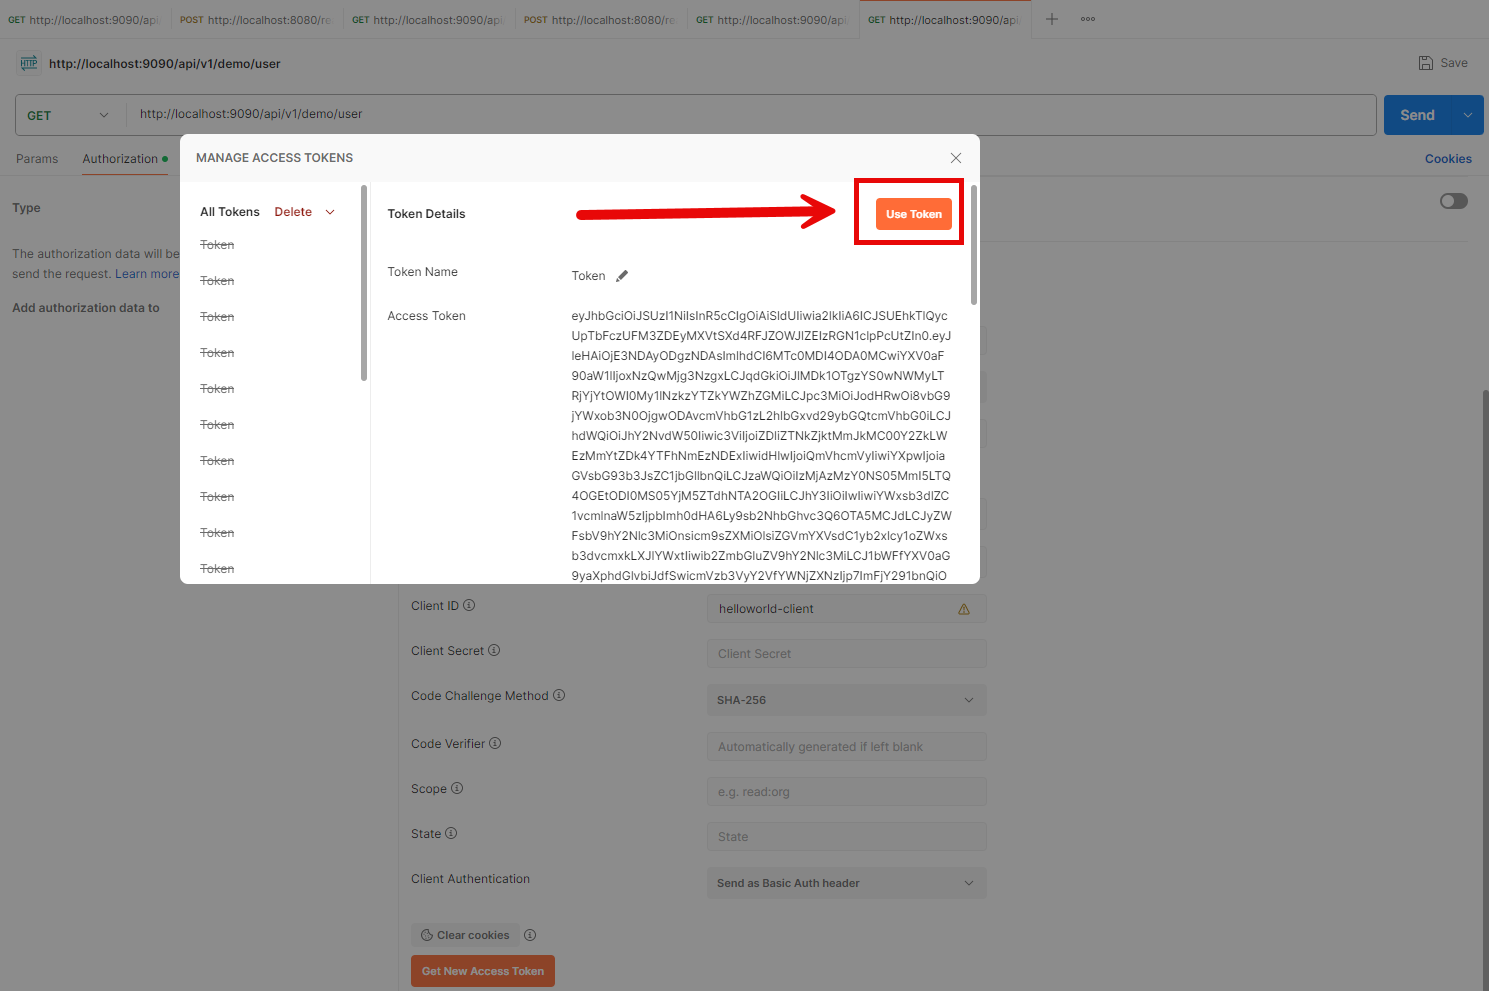
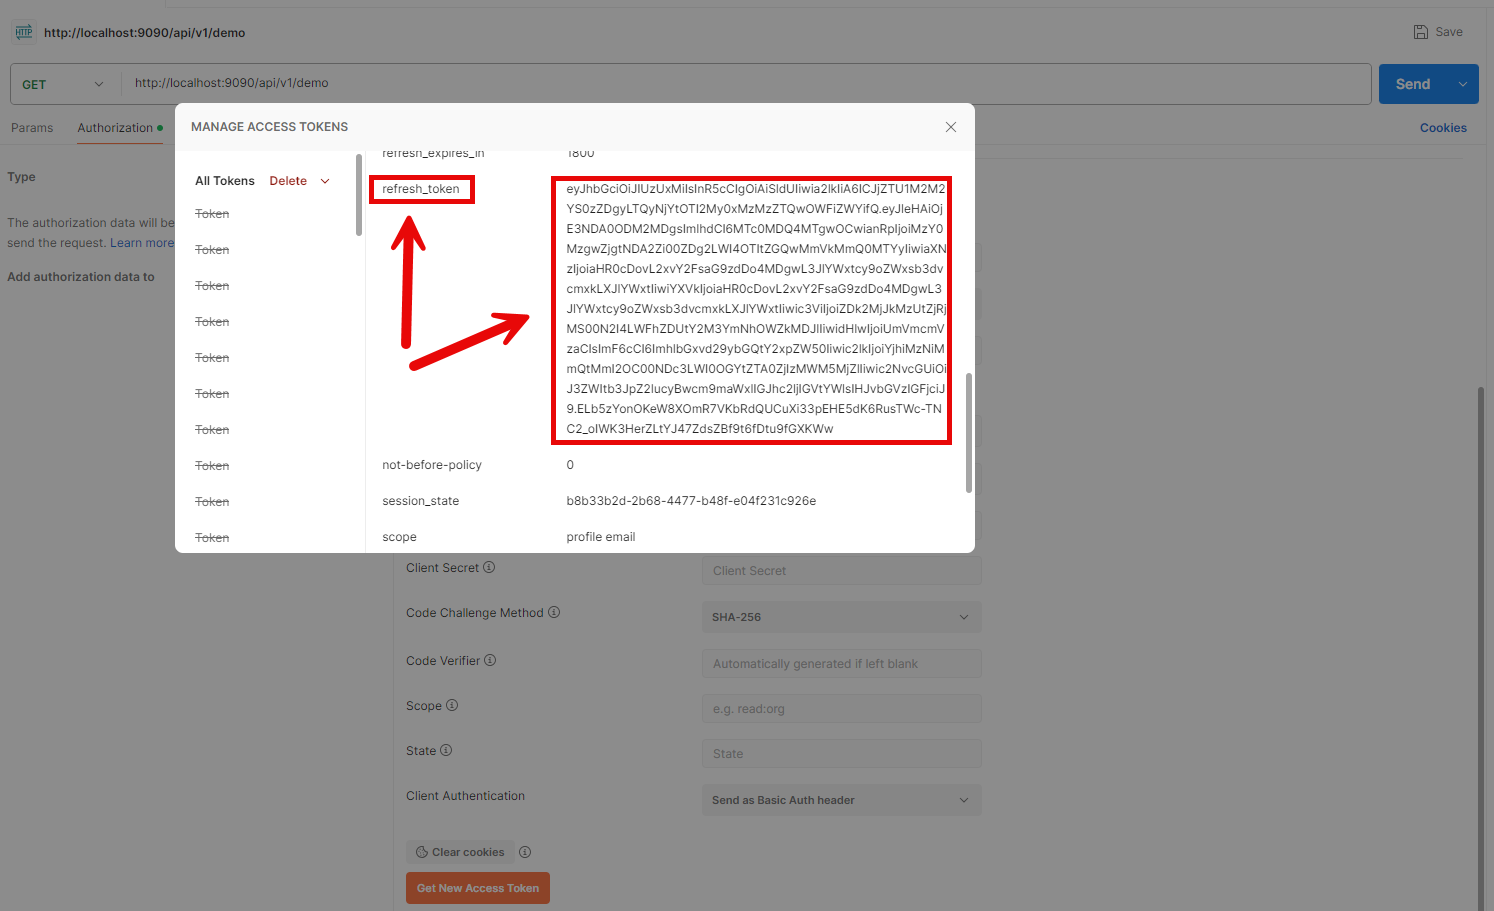
Update readme images

diff --git a/others/security/keycloak/springboot3-api-rest-security-resourceserver-refreshtoken/README.md b/others/security/keycloak/springboot3-api-rest-security-resourceserver-refreshtoken/README.md
@@ -9,6 +9,8 @@ EXAMPLE OAUTH 2.0
 
 ![My Image](readme-images/image-04.png)
 
+![My Image](readme-images/image-05.png)
+
 
 DESCRIPTION
 -----------
